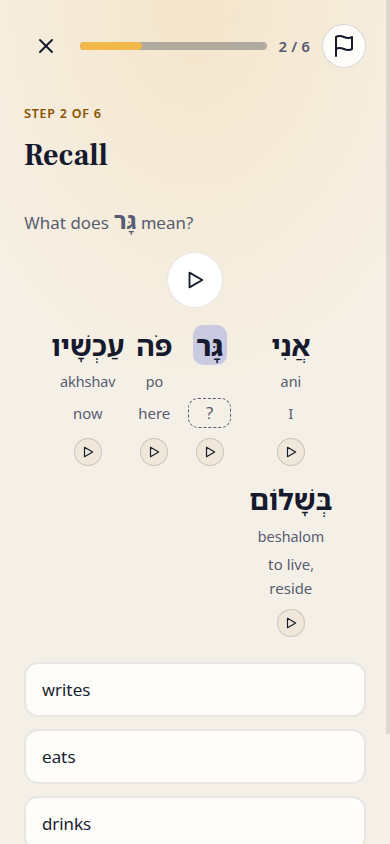
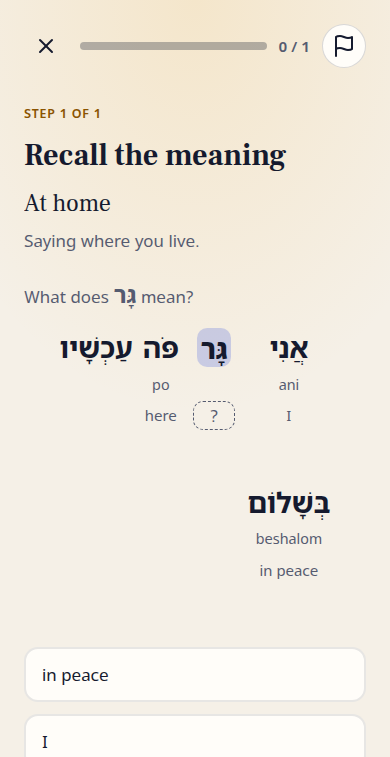
Keep a recall helper from showing the answer's gloss.
A non-target token keeps only its own lexicon gloss. The same gloss as the answer is cleared, and a token with no gloss stays blank.

diff --git a/internal/web/lesson_test.go b/internal/web/lesson_test.go
@@ -689,6 +689,100 @@ func TestMultiTokenRecallNamesTheTarget(t *testing.T) {
 	}
 }
 
+// The line אֲנִי גָּר פֹּה עַכְשָׁיו בְּשָׁלוֹם asks for גָּר. The target gloss
+// is an answer, so it stays off every other token. A token with no lexicon
+// row shows no gloss. A token whose own gloss is the answer's gloss shows
+// nothing rather than repeating it. The answer button still says it.
+func TestRecallLineDoesNotShowTheTargetGloss(t *testing.T) {
+	const (
+		ani      = "אֲנִי"
+		gar      = "גָּר"
+		po       = "פֹּה"
+		achshav  = "עַכְשָׁיו"
+		beshalom = "בְּשָׁלוֹם"
+		gloss    = "to live, reside"
+	)
+	line := ani + " " + gar + " " + po + " " + achshav + " " + beshalom
+	for _, tc := range []struct {
+		name          string
+		beshalomGloss string
+		wantInLine    string
+	}{
+		{name: "unknown and own gloss", beshalomGloss: "in peace", wantInLine: ">in peace<"},
+		{name: "lexeme repeats the answer", beshalomGloss: gloss},
+	} {
+		t.Run(tc.name, func(t *testing.T) {
+			now := time.Date(2026, 10, 18, 12, 0, 0, 0, time.UTC)
+			ctx := context.Background()
+			store, err := db.Open(ctx, filepath.Join(t.TempDir(), "hebrew.sqlite"), fixedClock(now))
+			if err != nil {
+				t.Fatal(err)
+			}
+			t.Cleanup(func() { _ = store.Close() })
+			brian, err := store.CreateUser(ctx, "brian@example.com", "sub-brian", auth.RoleLearner)
+			if err != nil {
+				t.Fatal(err)
+			}
+			sp := func(s string) *string { return &s }
+			rows := []lexicon.Input{
+				{TextNFC: ani, Gloss: "I", Translit: sp("ani"), POS: sp("pron")},
+				{TextNFC: gar, Gloss: gloss, Translit: sp("gar"), POS: sp("verb")},
+				{TextNFC: po, Gloss: "here", Translit: sp("po"), POS: sp("adv")},
+				{TextNFC: beshalom, Gloss: tc.beshalomGloss, Translit: sp("beshalom"), POS: sp("noun")},
+			}
+			if _, _, err := store.UpsertLexemes(ctx, rows); err != nil {
+				t.Fatal(err)
+			}
+			unitID := putLesson(t, store, nil, units.Unit{
+				Title: "At home", Situation: "Saying where you live.", Position: 1,
+				NewWords: []string{gar},
+				Lessons: []units.Lesson{{Kind: units.KindLesson, Activities: []units.Activity{
+					{Type: units.ActivityRecall, Text: line, Target: gar},
+				}}},
+			}, "shared")
+			publish(t, store, unitID)
+
+			svc, err := auth.New(auth.Config{
+				PublicOrigin: "https://learn.example", Clock: fixedClock(now), Store: store,
+				AllowedEmails: []string{"brian@example.com"},
+			})
+			if err != nil {
+				t.Fatal(err)
+			}
+			h := NewOptions(nil, svc, Options{Store: store})
+			cookie := mintSession(t, store, brian.ID, "brian-csrf", now.Add(time.Hour))
+			body := getAuthed(t, h, cookie, "/lesson/"+itoa(unitID)+"/0")
+			ask := activityHTML(t, body)
+			head, choices, ok := strings.Cut(ask, `class="choices"`)
+			if !ok {
+				t.Fatalf("recall missing choices:\n%s", ask)
+			}
+			if strings.Contains(head, gloss) {
+				t.Fatalf("the line shows the target gloss %q:\n%s", gloss, head)
+			}
+			if !strings.Contains(choices, ">"+gloss+"<") {
+				t.Fatalf("the answer choices dropped the target gloss:\n%s", choices)
+			}
+			if tc.wantInLine != "" && !strings.Contains(head, tc.wantInLine) {
+				t.Fatalf("the line dropped %s:\n%s", tc.wantInLine, head)
+			}
+			if !strings.Contains(head, beshalom) || !strings.Contains(head, achshav) {
+				t.Fatalf("the line dropped a token:\n%s", head)
+			}
+			// עַכְשָׁיו is not a lexeme. Its gloss slot stays empty.
+			if i := strings.Index(head, achshav); i >= 0 {
+				rest := head[i:]
+				if end := strings.Index(rest, `class="recall-clip"`); end > 0 {
+					rest = rest[:end]
+				}
+				if strings.Contains(rest, `class="wb__gl"`) || strings.Contains(rest, gloss) {
+					t.Fatalf("unknown token borrowed a gloss:\n%s", rest)
+				}
+			}
+		})
+	}
+}
+
 // A multi-word recall and a cloze both show the line's other words as help.
 // Those glosses, and a different lexeme with the same gloss, are not choices.
 // The four buttons are the target plus same-part-of-speech words from this

diff --git a/internal/web/lesson.go b/internal/web/lesson.go
@@ -585,6 +585,9 @@ func wordsFor(act units.Activity, lex map[string]db.LexemeView, newWords []db.Le
 	if act.Type == units.ActivityRecall {
 		markRecallTarget(words, lexemeTokenCount(act, lex), target.Text, phase)
 	}
+	if recallOrCloze(act.Type) {
+		dropBorrowedGloss(words, target.Text, target.Gloss)
+	}
 	return words
 }
 
@@ -618,6 +621,8 @@ func wordsForText(text, typ string, lex map[string]db.LexemeView, newWords []db.
 			words = append(words, views.Word{Gap: true})
 			continue
 		}
+		// A token missing from the lexicon keeps an empty gloss. The
+		// activity and the target are not a fallback for that field.
 		view := lex[tok]
 		word := views.Word{
 			Text:         tok,
@@ -1116,6 +1121,25 @@ func lexemeTokenCount(act units.Activity, lex map[string]db.LexemeView) int {
 		}
 	}
 	return n
+}
+
+// dropBorrowedGloss stops a helper token from showing the answer.
+// The tested word keeps its own gloss (hidden until the reveal). Every
+// other token keeps only the gloss stored on its own lexeme. The same
+// gloss as the answer is cleared, and an empty gloss stays empty.
+func dropBorrowedGloss(words []views.Word, targetText, targetGloss string) {
+	key := glossKey(targetGloss)
+	if key == "" {
+		return
+	}
+	for i := range words {
+		if words[i].Plain || words[i].Gap || words[i].Target || words[i].Text == targetText {
+			continue
+		}
+		if glossKey(words[i].Gloss) == key {
+			words[i].Gloss = ""
+		}
+	}
 }
 
 // markRecallTarget applies the multi-word recall rule. The tested word keeps
